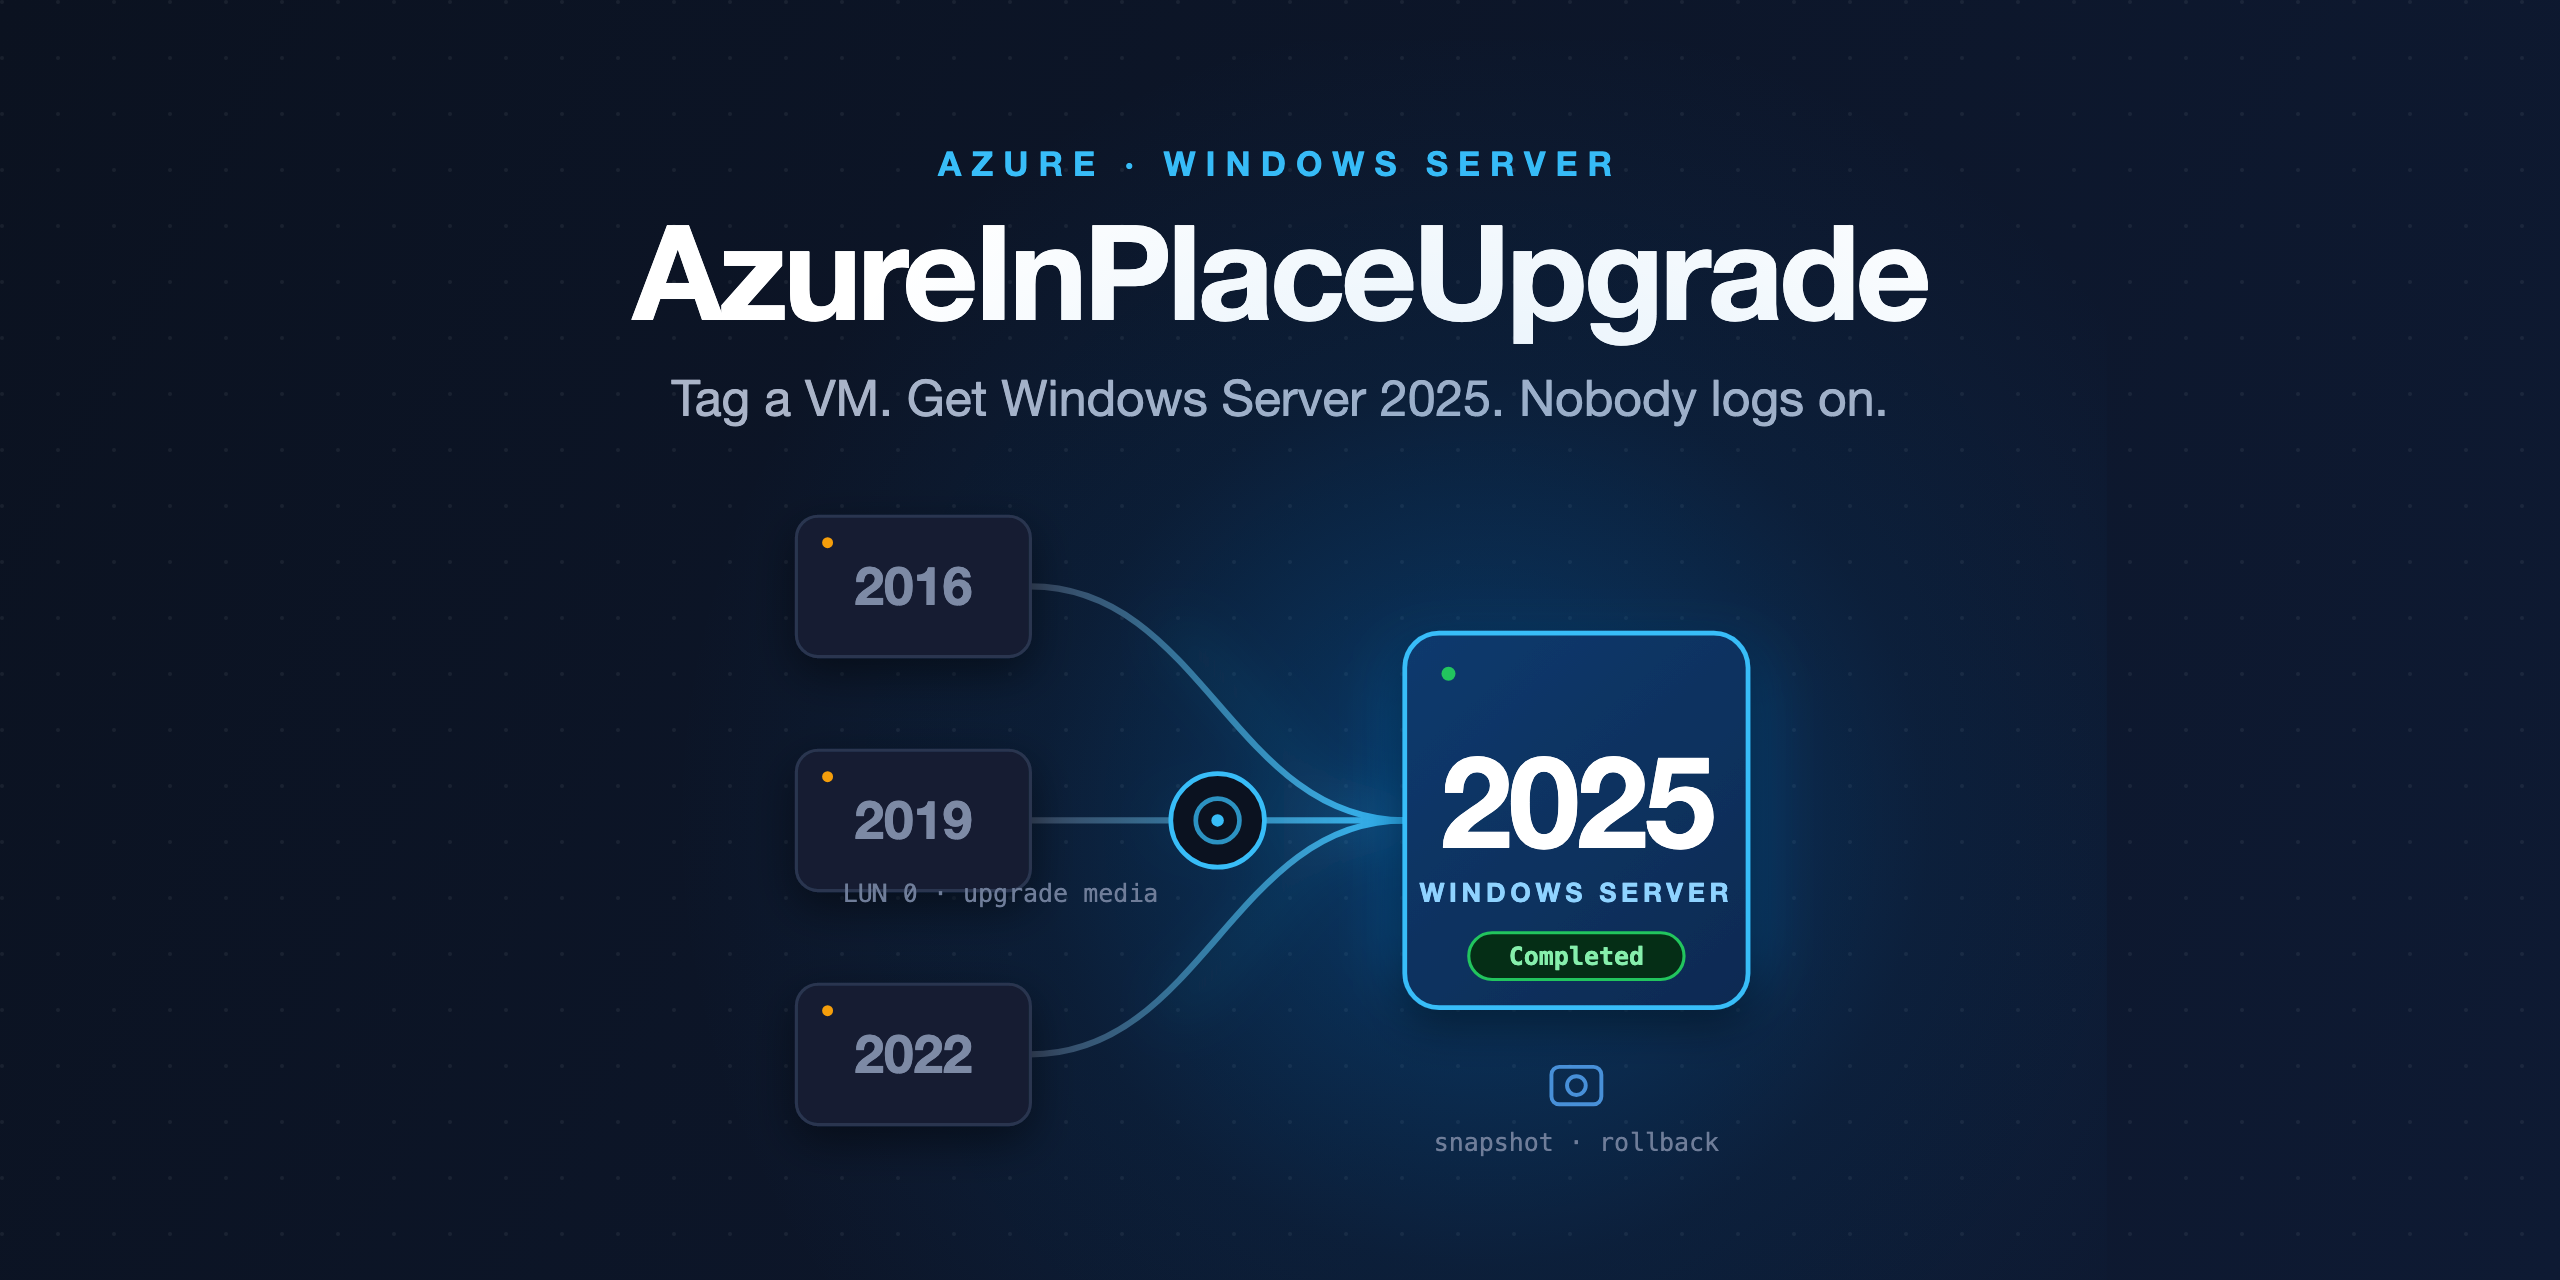
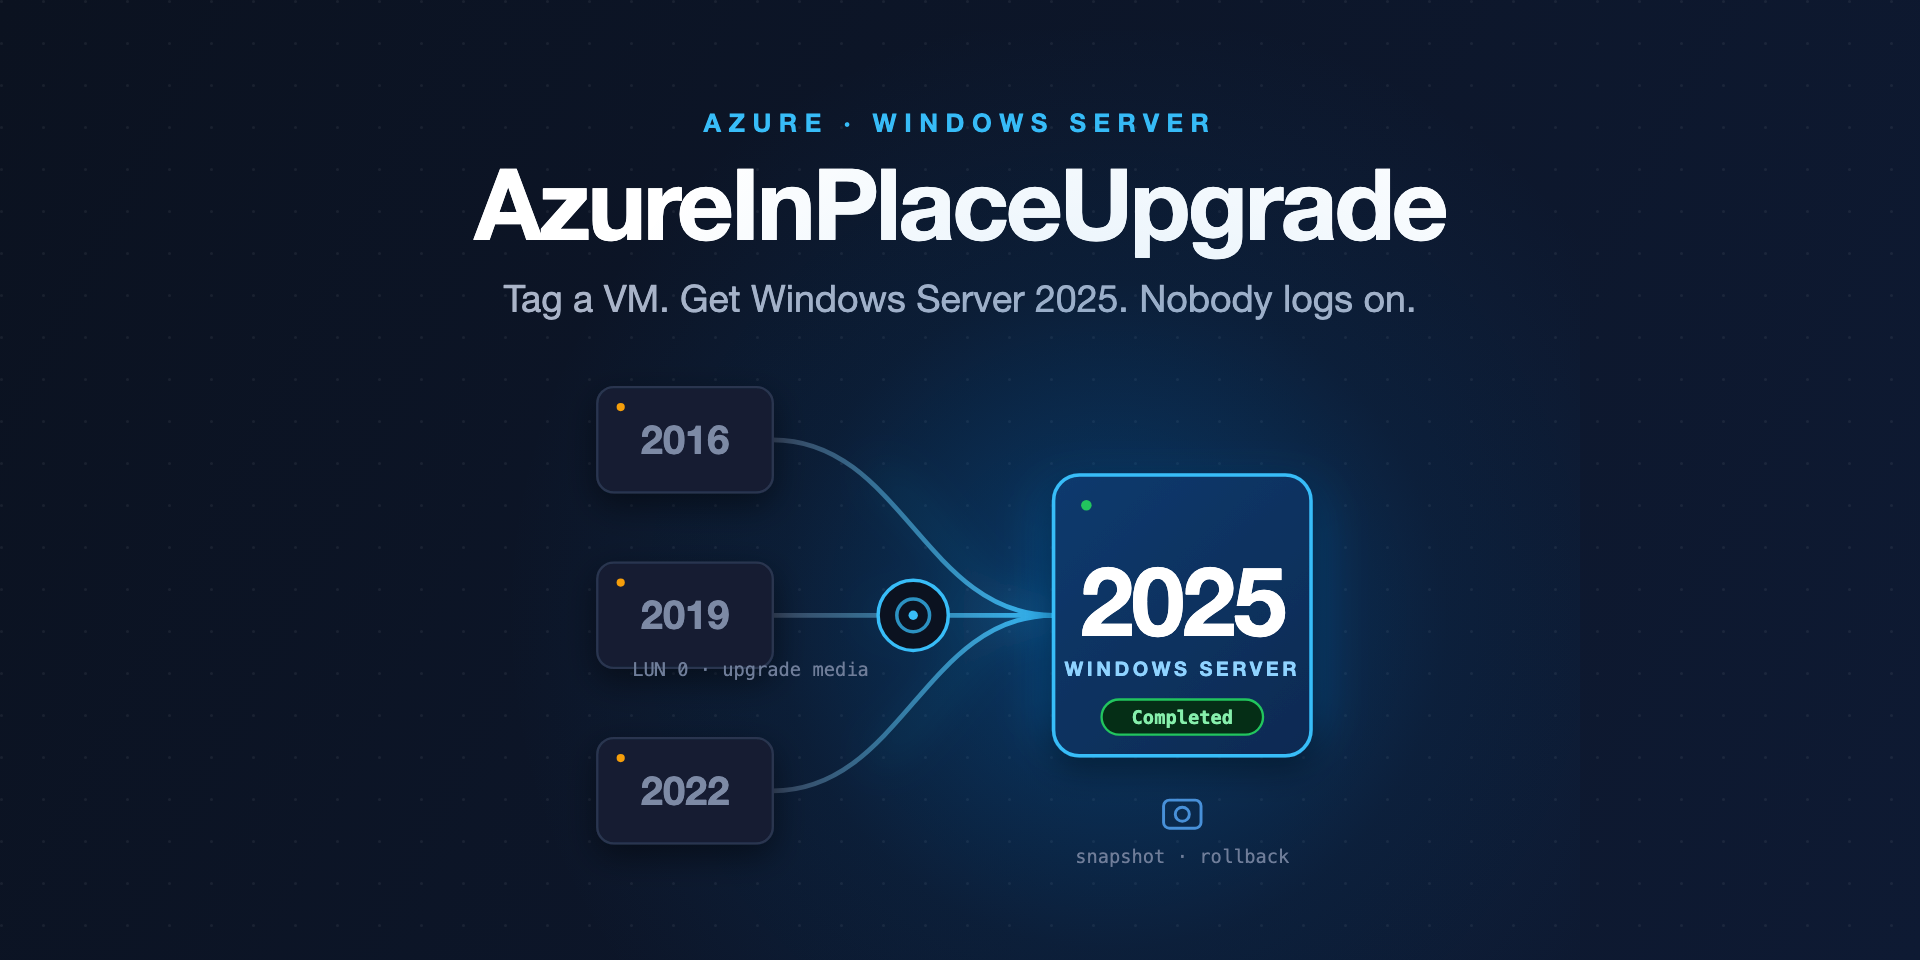
Social preview rendered at 1.5x (1920x960, 730 KB) to fit GitHub's 1 MB limit

Changed region(s): [[0.5625, 0.6875, 0.6562, 0.75]]

diff --git a/docs/images/social-preview.source.html b/docs/images/social-preview.source.html
@@ -1,6 +1,6 @@
 <!doctype html>
 <html><head><meta charset="utf-8">
-<!-- Source of social-preview.png. Render: "Google Chrome" --headless --disable-gpu --hide-scrollbars --force-device-scale-factor=2 --window-size=1280,640 --screenshot=social-preview.png file://$PWD/social-preview.source.html -->
+<!-- Source of social-preview.png. Render: "Google Chrome" --headless --disable-gpu --hide-scrollbars --force-device-scale-factor=1.5 --window-size=1280,640 --screenshot=social-preview.png file://$PWD/social-preview.source.html -->
 <style>
   html,body{margin:0;padding:0;background:#0b1220;}
   body{width:1280px;height:640px;overflow:hidden;font-family:-apple-system,"Segoe UI","Helvetica Neue",Helvetica,Arial,sans-serif;}
